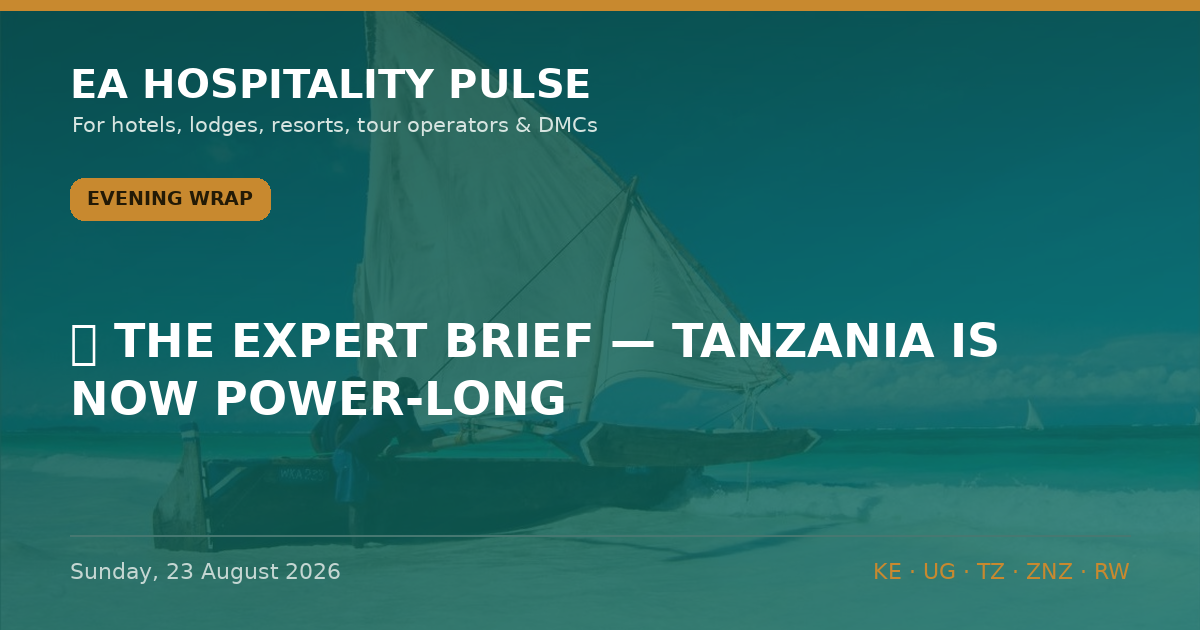
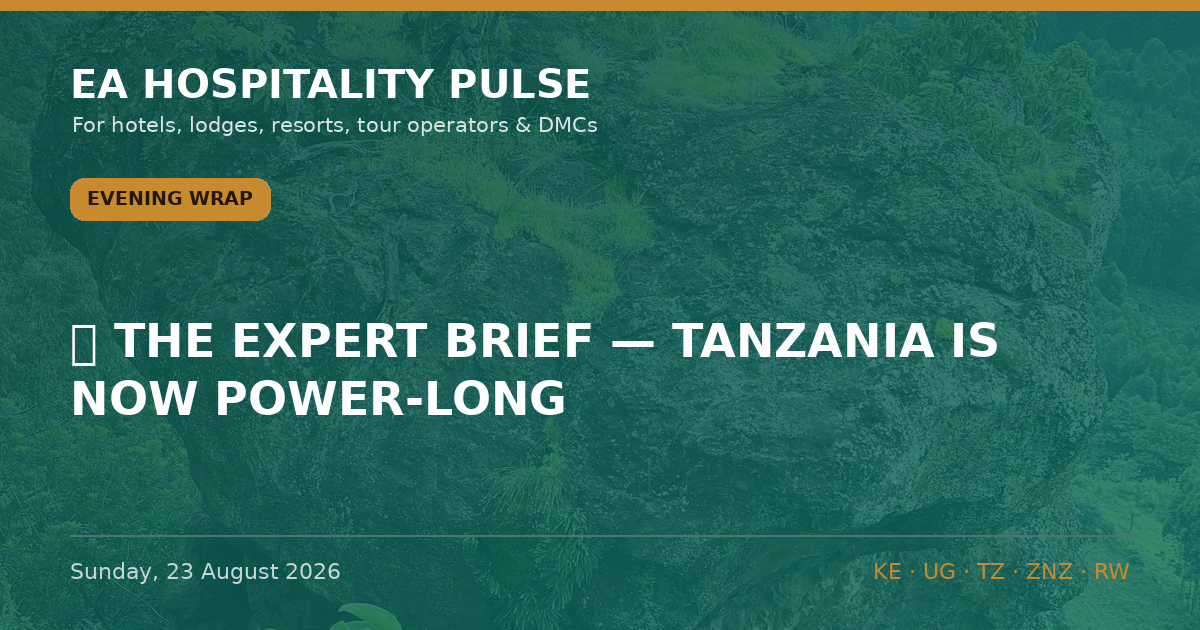
Auto-build: 2026-08-23 14:26 UTC

diff --git a/editions/pulse-2026-08-23-evening.html b/editions/pulse-2026-08-23-evening.html
@@ -122,7 +122,7 @@ footer.s{text-align:center;color:var(--muted);font-family:Helvetica Neue,Arial,s
 <div class="wrap">
   <article class="art">
     <img class="hero" src="../og/pulse-2026-08-23-evening-clean.png" alt="Evening Wrap — Sunday, 23 August 2026" loading="eager">
-    
+    <p class="hcredit">Photo: Sandra Aceng · <a href="https://commons.wikimedia.org/wiki/File:Majestic_Rock_Formation_at_Sipi,_Eastern_Uganda.jpg" target="_blank" rel="noopener nofollow">Wikimedia Commons</a> · <a href="https://creativecommons.org/licenses/by-sa/4.0" target="_blank" rel="noopener nofollow">CC BY-SA 4.0</a></p>
     <nav class="crumbs" aria-label="Breadcrumb"><a href="../index.html">Home</a><span aria-hidden="true">/</span><a href="../index.html#archive">Editions</a><span aria-hidden="true">/</span><span aria-current="page">Evening Wrap, Sunday, 23 August 2026</span></nav>
     <div class="kicker"><span class="badge">Evening Wrap</span><time datetime="2026-08-23">Sunday, 23 August 2026</time></div>
     <h1>The Expert Brief — Tanzania Is Now Power-long.</h1>

diff --git a/index.html b/index.html
@@ -456,7 +456,7 @@
   .imp-demand{color:var(--sage)} .imp-margin{color:var(--coral)} .imp-risk{color:#ff5b5b} .imp-watch{color:var(--amber)}
   @media(max-width:520px){.imp{position:static;display:inline-flex;margin:0 0 9px}.insight h3,.insight .imeta{padding-right:0}}
 </style>
-<!--BUILD_STAMP:20260823-1723--></head>
+<!--BUILD_STAMP:20260823-1425--></head>
 <body>
 <header class="site">
   <div class="wrap topbar">

diff --git a/data.js b/data.js
@@ -2772,4 +2772,4 @@ window.INSIGHTS = [
   "editionKey": "evening"
  }
 ];
-window.BUILT_AT = "2026-08-23 17:23";
+window.BUILT_AT = "2026-08-23 14:25";

diff --git a/ledger.js b/ledger.js
@@ -1,5 +1,5 @@
 window.LEDGER = {
- "updated": "2026-08-23 17:24",
+ "updated": "2026-08-23 14:26",
  "stats": {
   "total": 113,
   "open": 90,
